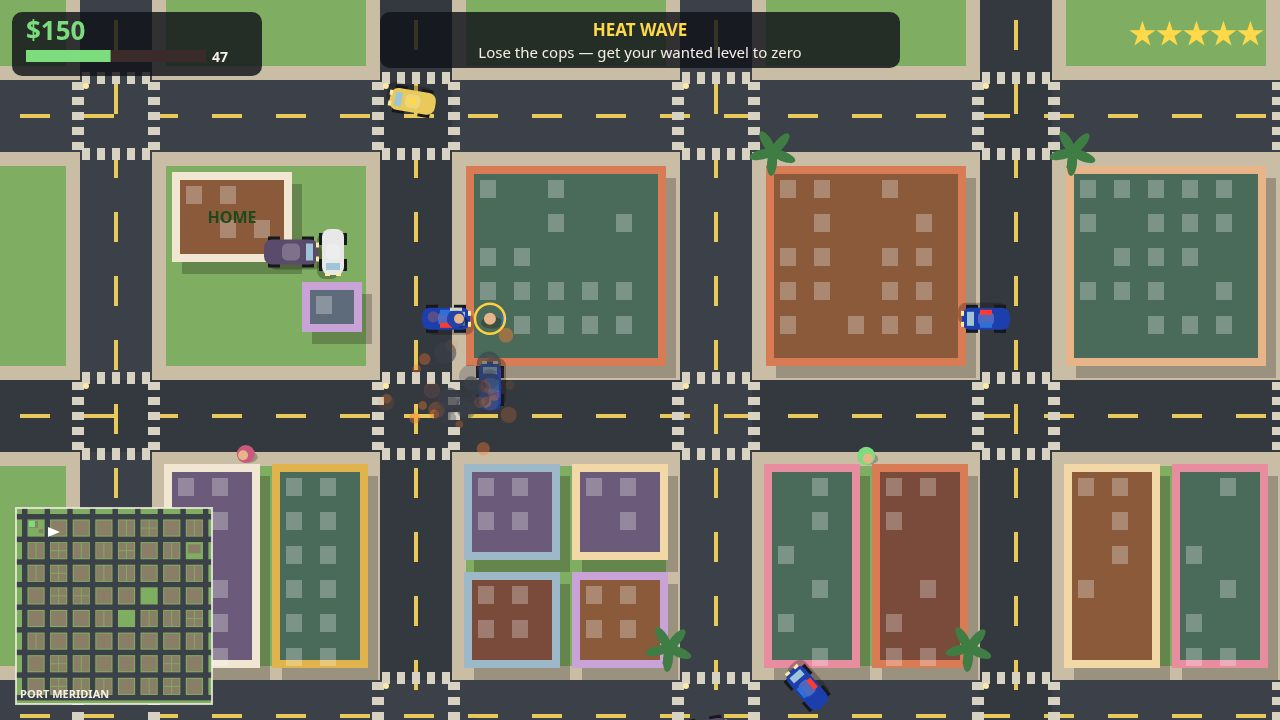
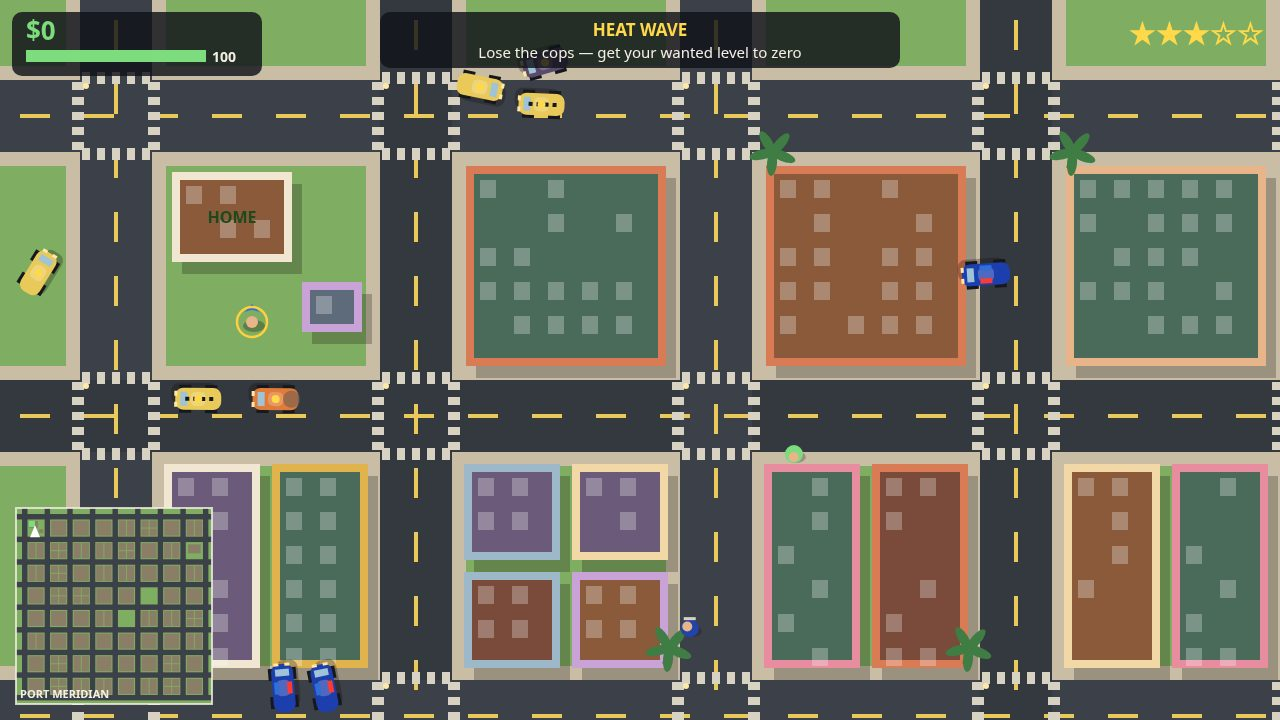
Fix van spawn jam (van overlapped home wall + own sedan); mission shot kites guards; retake screenshots

diff --git a/game/src/city.js b/game/src/city.js
@@ -110,6 +110,24 @@ export function createCity(random) {
     parkedCars.push({ x, y, angle: vertical ? Math.PI / 2 : 0, model: pick(random, ['sedan', 'sedan', 'van', 'taxi']), color: pick(random, carColors), target: false });
   }
 
+  // Never let a parked car block the courier van: with some seeds one lands
+  // on top of the van's parking spot and wedges it against the safehouse,
+  // so the first mission cannot even start. Relocated cars go to a fixed
+  // road-edge spot (no extra random calls, so the rest of the city is
+  // unchanged for this seed).
+  let relocated = 0;
+  for (const pc of parkedCars) {
+    if (pc.target) continue;
+    const nearVan = Math.hypot(pc.x - (safehouse.x + 110), pc.y - (safehouse.y + 40)) < 130;
+    const nearHome = Math.hypot(pc.x - safehouse.x, pc.y - safehouse.y) < 200;
+    if (nearVan || nearHome) {
+      pc.x = roadCenter(7);
+      pc.y = roadCenter(1) + 26 + relocated * 70;
+      pc.angle = 0;
+      relocated += 1;
+    }
+  }
+
   function inWater(x, y) {
     if (y < WORLD.waterY) return false;
     for (const pier of piers) {

diff --git a/game/src/shots.js b/game/src/shots.js
@@ -13,7 +13,7 @@ import { range } from './random.js';
 const START_SECONDS = 6;
 const DRIVE_SECONDS = 17;
 const CHASE_SECONDS = 13;
-const MISSION_SECONDS = 9;
+const MISSION_SECONDS = 6;
 
 function normAngle(a) {
   while (a > Math.PI) a -= Math.PI * 2;
@@ -141,7 +141,14 @@ export function stageShot(name, world) {
         input.aimX = nearest.x;
         input.aimY = nearest.y;
         input.shoot = d < 420;
-        if (d > 170) {
+        // Kite: close in to shoot, but back off when a guard gets too close
+        // or the player's health is low — standing still gets Rook killed.
+        if (d < 170 || p.health < 40) {
+          input.up = dy > 8;
+          input.down = dy < -8;
+          input.left = dx > 8;
+          input.right = dx < -8;
+        } else if (d > 170) {
           input.up = dy < -8;
           input.down = dy > 8;
           input.left = dx < -8;

diff --git a/game/src/world.js b/game/src/world.js
@@ -620,8 +620,11 @@ export function createWorld(random) {
     state.objective = '';
     state.stats = { missionsDone: 0, carsStolen: 0, pedsHit: 0, shotsFired: 0, timePlayed: 0 };
     state.player = makePlayer(city.safehouse.x + 40, city.safehouse.y + 110);
-    // The player's own sedan waits at the safehouse.
-    const sedan = spawnPlayerCar('sedan', city.safehouse.x + 110, city.safehouse.y + 40, Math.PI / 2);
+    // The player's own sedan waits on the road just south of the safehouse.
+    // It used to sit in the courier van's exit lane, 20px from the van, and
+    // wedge it against the home's east wall so the first mission could not
+    // even start.
+    const sedan = spawnPlayerCar('sedan', city.safehouse.x + 40, city.safehouse.y + 204, 0);
     sedan.own = true;
     // The mission target car sits at the plaza.
     spawnParkedCar(true);

diff --git a/game/src/missions.js b/game/src/missions.js
@@ -37,8 +37,11 @@ export function startMission(world, index) {
   s.marker = null;
   s.objective = '';
   if (index === 0) {
-    // The courier van waits at the safehouse garage.
-    const van = world.spawnPlayerCar('van', city.safehouse.x + 90, city.safehouse.y + 40, 0);
+    // The courier van waits at the safehouse garage. Its spot is clear of
+    // the home's east wall and of the player's sedan: it used to spawn half
+    // inside the wall, wedged against the sedan, and mission 1 could not
+    // even start.
+    const van = world.spawnPlayerCar('van', city.safehouse.x + 110, city.safehouse.y + 40, 0);
     van.missionVan = true;
     s.marker = { x: van.x, y: van.y, label: 'Courier van' };
     s.objective = 'Get in the courier van';
